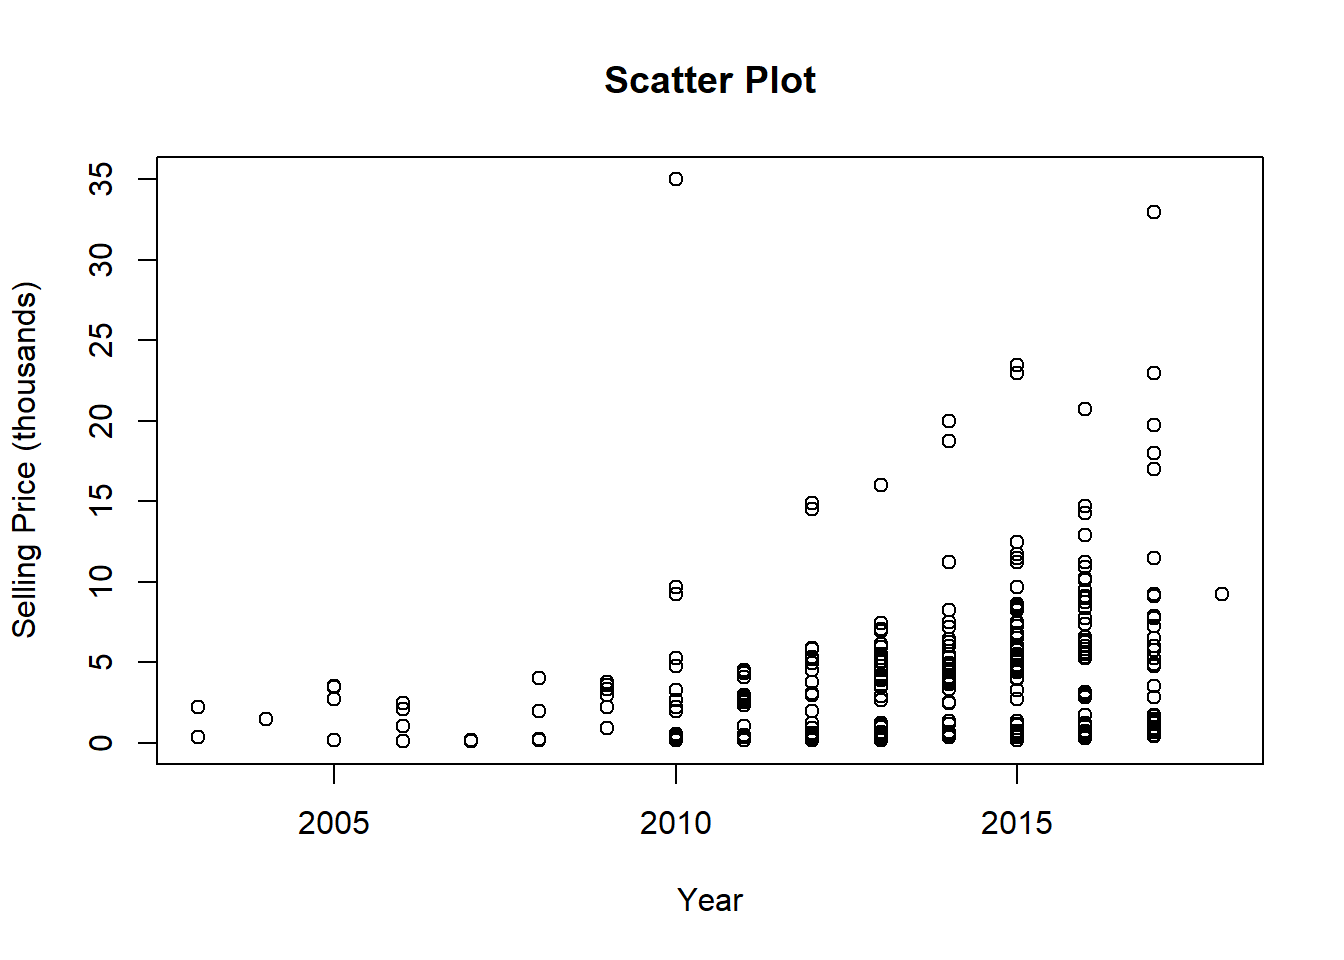
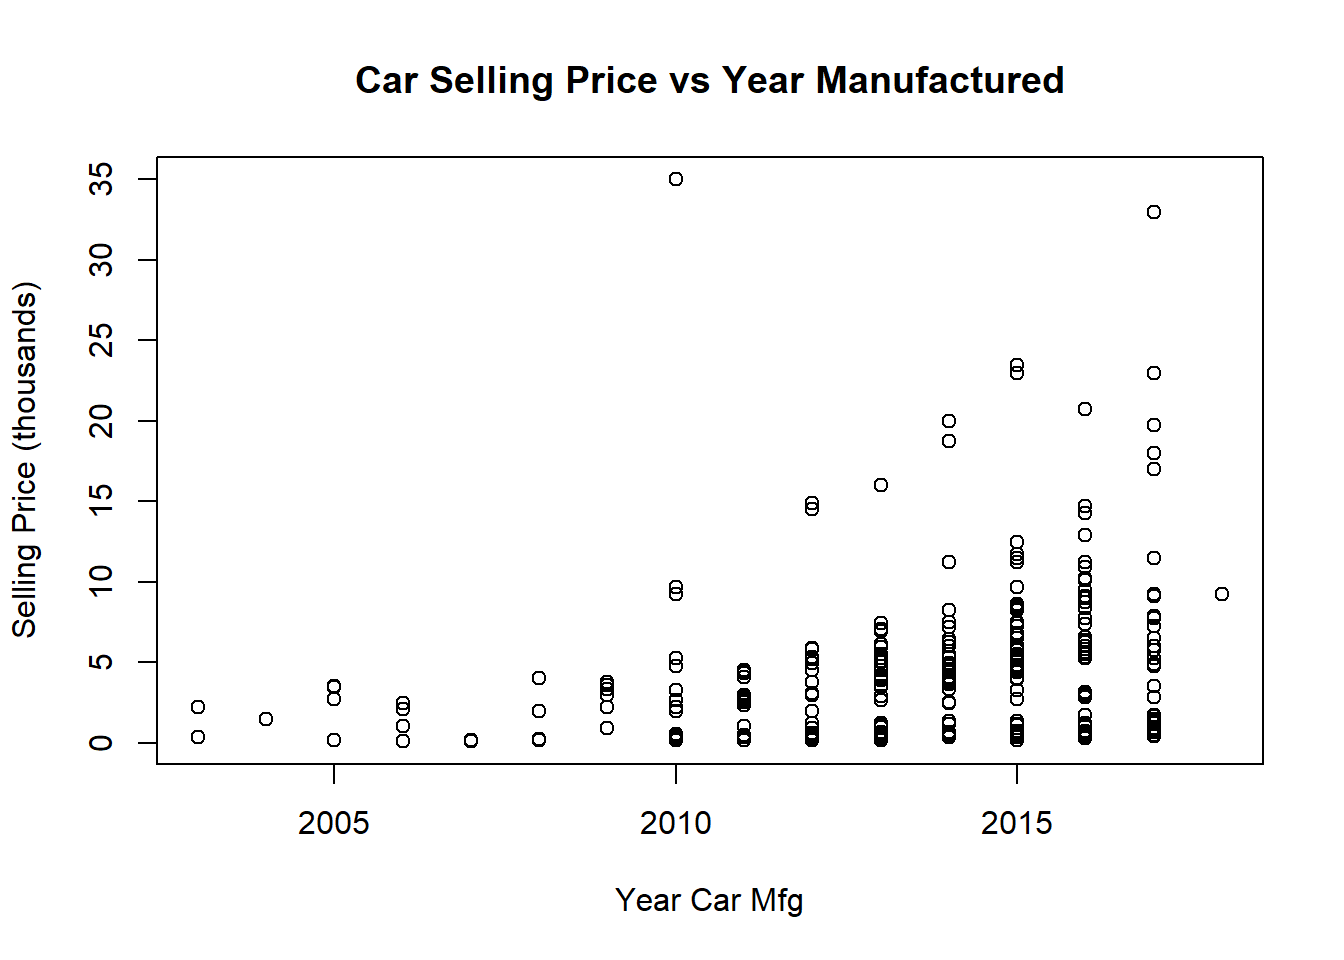
LC

Changed region(s): [[0.25, 0.0625, 0.8125, 0.125], [0.4688, 0.9062, 0.5938, 0.9688]]

diff --git a/index.html b/index.html
@@ -160,10 +160,10 @@ div.csl-indent {
 <h2 class="anchored" data-anchor-id="slides">slides</h2>
 <p><a href="Slides.html">Slides</a></p>
 </section>
-<section id="introduction" class="level2">
-<h2 class="anchored" data-anchor-id="introduction">Introduction</h2>
-<p>Cross Validation is a key method used to assess model generalizability, which describes the extent which statistical models developed in one sample fit other samples from the same population. <span class="citation" data-cites="song2021making">(<a href="#ref-song2021making" role="doc-biblioref">Song, Tang, and Wee 2021</a>)</span>. Essentially the goal of cross validation is to mimic the prediction of future individuals from the population, and allows the accuracy of a predictive model’s performance to be estimated. This is a tool that can be used to help determine the “best” model for a data set, and tends to be used in machine learning modeling. The early pioneering work of Stone and Geisser in the 1970’s and the work by Burman in the 1980’s on leave-one- out cross validation, set the stage for the current techniques of cross validation <span class="citation" data-cites="jung2015ak">(<a href="#ref-jung2015ak" role="doc-biblioref">Jung and Hu 2015</a>)</span>. Today’s common techniques of cross validation include data splitting (the most common method) by the hold- out or validation technique, random subsampling by Monte Carlo, k-folds and repeated k-folds, and leave-one-out methods. <span class="citation" data-cites="ahmed2019classification">(<a href="#ref-ahmed2019classification" role="doc-biblioref">Ahmed and Nandi 2019</a>)</span>.</p>
-<p>The general, 5 step process to cross validation is as follows <span class="citation" data-cites="song2021making">(<a href="#ref-song2021making" role="doc-biblioref">Song, Tang, and Wee 2021</a>)</span>:</p>
+<section id="introduction" class="level1">
+<h1>Introduction</h1>
+<p>Cross-Validation is a key method used to assess model generalizability, which describes the extent that the statistical models created from one sample fit other samples from the same population. <span class="citation" data-cites="song2021making">(<a href="#ref-song2021making" role="doc-biblioref">Song, Tang, and Wee 2021</a>)</span>. Essentially the goal of cross-validation is to mimic the prediction of future individuals from the population, and it allows the accuracy of a predictive model’s performance to be estimated. This is a tool that can be used to help determine the “best” model for a data set, and tends to be often used in machine learning modeling and applications where it can be difficult to obtain new data to validate models, like in medical research applications. The early pioneering work of Stone and Geisser in the 1970’s, and the work by Burman in the 1980’s on leave-one- out cross-validation set the stage for the current techniques of cross-validation <span class="citation" data-cites="jung2015ak">(<a href="#ref-jung2015ak" role="doc-biblioref">Jung and Hu 2015</a>)</span>. Today’s common techniques of cross-validation include data splitting (the most common method) by the hold- out or validation technique, random subsampling by Monte Carlo, k-folds and repeated k-folds, and leave-one-out methods. <span class="citation" data-cites="ahmed2019classification">(<a href="#ref-ahmed2019classification" role="doc-biblioref">Ahmed and Nandi 2019</a>)</span>.</p>
+<p>The general, 5 step process to cross-validation is as follows <span class="citation" data-cites="song2021making">(<a href="#ref-song2021making" role="doc-biblioref">Song, Tang, and Wee 2021</a>)</span>:</p>
 <ol type="1">
 <li>Split the data into a training set and test set</li>
 <li>Fit a model to the training set and obtain the model parameters</li>
@@ -171,36 +171,32 @@ div.csl-indent {
 <li>Repeat steps one through three</li>
 <li>Calculate the average cross-validation prediction accuracy across all the repetitions</li>
 </ol>
-<p>This process differs in the various cross-validation techniques by varying how the data is split and how many repetitions are performed of the train and test cycles. Details for the various techniques are outlined in the methods section. The best cross validation technique considers the model’s bias or difference between the population parameter and the cross-validation estimate, the variance or uncertainty in the cross-validation estimates, and the computation costs associated with each method.</p>
+<p>This process differs in the various cross-validation techniques by varying how the data is split and how many repetitions are performed of the train and test cycles. Details for the various techniques are outlined in the methods section. The best cross-validation technique considers the model’s bias or difference between the population parameter and the cross-validation estimate, the variance or uncertainty in the cross-validation estimates, and the computation costs associated with each method.</p>
 <p>Typical technique comparisons for linear models use the root mean squared error (RMSE), mean absolute error (MAE), and R-squared (<span class="math inline">\(R^2\)</span>). RMSE calculates how far predicted values are from observed values in the data set and is calculated by:<br>
-<span class="math display">\[RMSE= \sqrt{\frac{\sum(P_i – O_i)^2}{n}}\]</span> with <span class="math inline">\(P_i\)</span> being the predicted value for the ith observation, <span class="math inline">\(O_i\)</span> being the ith observed value, and n being the sample size. MAE describes the typical magnitude of the residuals and is calculated by: <span class="math display">\[MAE=\frac{1}{n}\sum(|y_i-\hat{y}|)\]</span> where <span class="math inline">\(y_i\)</span> is the actual output value and <span class="math inline">\(\hat{y}\)</span> is the predicted output. <span class="math inline">\(R^2\)</span> describes how well the model predictors explains the response variable variation, or the fraction of the variance that is explained in the model. This equation is as follows: <span class="math display">\[R^2=\frac{n\sum(xy)-\sum(x)\sum(y)}{\sqrt{[n\sum(x^2)-(\sum(x)^2)][n\sum(y^2)-(\sum(y)^2)]}}\]</span> This can also be written as: <span class="math display">\[R^2=1-\frac{\sum(y_i-\hat{y})^2}{\sum(y_i-\overline{y})^2}\]</span> where <span class="math inline">\(\overline{y}\)</span> is the mean value of y. <span class="citation" data-cites="Ott2015">(<a href="#ref-Ott2015" role="doc-biblioref">Ott 2015</a>)</span></p>
+<span class="math display">\[RMSE= \sqrt{\frac{\sum(P_i – O_i)^2}{n}}\]</span> with <span class="math inline">\(P_i\)</span> being the predicted value for the i^th observation, <span class="math inline">\(O_i\)</span> being the i^(th) observed value, and n being the sample size. MAE describes the typical magnitude of the residuals and is calculated by: <span class="math display">\[MAE=\frac{1}{n}\sum(|y_i-\hat{y}|)\]</span> where <span class="math inline">\(y_i\)</span> is the actual output value and <span class="math inline">\(\hat{y}\)</span> is the predicted output. <span class="math inline">\(R^2\)</span> describes how well the model predictors explains the response variable variation, or the fraction of the variance that is explained in the model. This equation is as follows: <span class="math display">\[R^2=\frac{n\sum(xy)-\sum(x)\sum(y)}{\sqrt{[n\sum(x^2)-(\sum(x)^2)][n\sum(y^2)-(\sum(y)^2)]}}\]</span> This can also be written as: <span class="math display">\[R^2=1-\frac{\sum(y_i-\hat{y})^2}{\sum(y_i-\overline{y})^2}\]</span> where <span class="math inline">\(\overline{y}\)</span> is the mean value of y. <span class="citation" data-cites="Ott2015">(<a href="#ref-Ott2015" role="doc-biblioref">Ott 2015</a>)</span></p>
 <p>One of the limitations of cross-validation methods is that they are not guaranteed to pick the true model of the data distribution, even as the number of samples approaches infinity. This is because when you train two different models on the same training set the one with more free parameters will model the training data better because it can over fit the data more easily. This can result in picking the wrong model due to over fitting. <span class="citation" data-cites="gronau2019limitations">(<a href="#ref-gronau2019limitations" role="doc-biblioref">Gronau and Wagenmakers 2019</a>)</span></p>
 </section>
-<section id="methods" class="level2">
-<h2 class="anchored" data-anchor-id="methods">Methods</h2>
-<p>The most common method of performing cross-validation is the <strong>Hold Out or Validation Technique</strong> (Ahmed, 2019). This method tends to use defined splits for the training and test set, like a 90/10, 80/20, 70/30, 60/40, or 50/50 train/test data split. This method is considered an easy, straightforward approach, but with the model only being built on a portion of the data, this model may not predict well as it is sensitive to what data is (or isn’t) chosen in the training set. This is especially problematic for small sample sizes. For the car data set modeling included in this paper, the method for hold Out validation is as follows:</p>
+<section id="methods" class="level1">
+<h1>Methods</h1>
+<p>##Cross-Validation Techniques</p>
+<p>The most common method of performing cross-validation is the <strong>Hold-Out or Validation Technique</strong> (Ahmed, 2019). This method tends to use defined splits for the training and test set, like a 90/10, 80/20, 70/30, 60/40, or 50/50 train/test data split. This method is considered an easy, straightforward approach, but with the model only being built on a portion of the data, this model may not predict well as it is sensitive to what data is (or isn’t) chosen in the training set. This can be especially problematic for small sample sizes. For the car data set modeling included in this paper, the method for hold-out validation is as follows:</p>
 <ol type="1">
-<li>Split the data into an 70/30 training/test data set.</li>
+<li>Split the data into an 70/30 training/test data set</li>
 <li>Fit the model to the training set</li>
 <li>Apply the fitted model to the test set</li>
 <li>Compare the model predictions (<span class="math inline">\(R^2\)</span>, MAE, RMSE)</li>
 </ol>
 <p>The <strong>k-folds Cross-Validation Technique</strong> is one potential answer to the limitations in the simple hold-out technique. The data is divided into k groups or splits, and then each k group becomes a test set while the other groups as a whole are the training set. The detailed process is as follows <span class="citation" data-cites="jung2015ak">(<a href="#ref-jung2015ak" role="doc-biblioref">Jung and Hu 2015</a>)</span>:</p>
 <ol type="1">
-<li>Randomly and evenly split the data set into k-folds.</li>
+<li>Randomly and evenly split the data set into k-folds</li>
 <li>Use k-1 folds of data as the training set to fit the model</li>
 <li>With the fitted models, predict the value of the response variable in the hold out fold (kth fold)</li>
 <li>From the response variable in the hold-out fold, calculate the prediction error</li>
-<li>Repeat steps 2-4 for k times, so each k fold is used as a hold-out</li>
+<li>Repeat steps 2-4 for k times, using each k fold as a hold-out</li>
 <li>Compare the prediction performance measures to select the “best” model using the equation: <span class="math display">\[CV_(k)=\frac{1}{k}\sum_{i=1}^{k}{MSE_i}\]</span></li>
 </ol>
 <p>The following image, Figure 1, visually shows the how data is split in the k-folds technique.</p>
-<div class="quarto-figure quarto-figure-center">
-<figure class="figure">
-<p><img src="k-folds.png" class="img-fluid figure-img"></p>
-<p></p><figcaption class="figure-caption">Figure 1: Visual Depiction of K-folds <a href="https://www.i2tutorials.com/machine-learning-tutorial/machine-learning-k-fold-cross-validation/">Sourced from www.i2tutorials.com for image</a></figcaption><p></p>
-</figure>
-</div>
+<p><img src="k-folds.png" class="img-fluid" alt="Figure 1: Visual Depiction of K-folds (Image source (https://www.i2tutorials.com/machine-learning-tutorial/machine-learning-k-fold-cross-validation/)](k-folds.png 2019))">)</p>
 <p>Expanding on the k-folds technique is the <strong>repeated k-folds Cross-Validation Technique</strong> <span class="citation" data-cites="song2021making">(<a href="#ref-song2021making" role="doc-biblioref">Song, Tang, and Wee 2021</a>)</span> which extends the k-folds by conducting multiple repetitions (n), each using a different k fold split. If 5 repeats of a 10-fold cross validation were chosen, 50 (n*k) different models would be fit and evaluated. With each repetition (n) having a slightly different data subset, the model predictors should be even more unbiased than with k-folds, but with having to repeat the process numerous times, this can be a time and labor intensive process, leading to increased costs. The process is as follows:</p>
 <ol type="1">
 <li>Randomly and evenly split the data set into k-folds.</li>
@@ -221,10 +217,12 @@ div.csl-indent {
 <p>One big decision that has to be made when using cross-validation methods other than leave-one-out, is the <em>optimal number of folds</em> (also known as k) that the data should be divided into. In the article “Performance of Machine Learning Algorithms with Different K Values in K-fold Cross-Validation” k-validation was used on 4 different machine learning algorithms with splits of 3, 5, 7, 10, 15 and 20. They found the optimal k folds changed depending on the model being tested. <span class="citation" data-cites="nti2021performance">(<a href="#ref-nti2021performance" role="doc-biblioref">Nti, Nyarko-Boateng, and Aning 2021</a>)</span> Common practice uses 5 and 10 folds as these values have been shown to yield favorable test error rate estimates. <span class="citation" data-cites="James2013">(<a href="#ref-James2013" role="doc-biblioref">James 2013</a>)</span>. Our paper will explore using 3, 5 and 10 k-folds, and modeling repeated k-folds of 3 and 5 repetitions on 10 folds.</p>
 <p>Another technique is the <strong>Monte Carlo Cross-Validation Technique</strong>, which is similar to a k-fold method, but a predefined portion of the data is randomly selected to form the test set in each repetition, and the remaining portion forms the training set. The train-test process is repeated a predetermined number of times. <span class="citation" data-cites="wainer2021nested">(<a href="#ref-wainer2021nested" role="doc-biblioref">Wainer and Cawley 2021</a>)</span></p>
 <p>Additionally, <strong>Multiple Predicting Cross-Validation</strong> is a technique that can be used for cross-validation but is not being modeled in this paper. This is a variation of k-folds but instead of each fold being the validation set, it is the training set. The trained model is then evaluated on the remaining data. The average of the k-folds is then used to measure how good the model is. <span class="citation" data-cites="jung2018multiple">(<a href="#ref-jung2018multiple" role="doc-biblioref">Jung 2018</a>)</span></p>
+<p>#Cross-Validation Model Evaluation Typical technique comparisons for linear models use the root mean squared error (RMSE), mean absolute error (MAE), and R-squared (<span class="math inline">\(R^2\)</span>). RMSE calculates how far predicted values are from observed values in the data set and is calculated by:<br>
+<span class="math display">\[RMSE= \sqrt{\frac{\sum(P_i – O_i)^2}{n}}\]</span> with <span class="math inline">\(P_i\)</span> being the predicted value for the i^th observation, <span class="math inline">\(O_i\)</span> being the i^(th) observed value, and n being the sample size. MAE describes the typical magnitude of the residuals and is calculated by: <span class="math display">\[MAE=\frac{1}{n}\sum(|y_i-\hat{y}|)\]</span> where <span class="math inline">\(y_i\)</span> is the actual output value and <span class="math inline">\(\hat{y}\)</span> is the predicted output. <span class="math inline">\(R^2\)</span> describes how well the model predictors explains the response variable variation, or the fraction of the variance that is explained in the model. This equation is as follows: <span class="math display">\[R^2=\frac{n\sum(xy)-\sum(x)\sum(y)}{\sqrt{[n\sum(x^2)-(\sum(x)^2)][n\sum(y^2)-(\sum(y)^2)]}}\]</span> This can also be written as: <span class="math display">\[R^2=1-\frac{\sum(y_i-\hat{y})^2}{\sum(y_i-\overline{y})^2}\]</span> where <span class="math inline">\(\overline{y}\)</span> is the mean value of y. <span class="citation" data-cites="Ott2015">(<a href="#ref-Ott2015" role="doc-biblioref">Ott 2015</a>)</span></p>
 </section>
-<section id="analysis-and-results" class="level2">
-<h2 class="anchored" data-anchor-id="analysis-and-results">Analysis and Results</h2>
-<p><strong>Data Discussion</strong></p>
+<section id="analysis-and-results" class="level1">
+<h1>Analysis and Results</h1>
+<p>##Data Discussion</p>
 <p>Cross-validation techniques of hold-out validation, k-folds, repeated k-folds, leave-one-out and Monte Carlo were performed on the Kaggle Car data.csv set. This data set allowed us to model the selling price of a used car in the United Kingdom given the variables of kilometers driven, the fuel type used, the year the car was manufactured, if the seller was an individual or dealership, and what type of transmission was in the car. This data set had 301 entries. The data is detailed in table 1 below.</p>
 <table class="table">
 <colgroup>
@@ -274,7 +272,7 @@ div.csl-indent {
 </table>
 <p>Table 1: Car Data Set for Cross Validation</p>
 <p><a href="https://www.kaggle.com/datasets/nehalbirla/vehicle-dataset-from-cardekho?select=car+data.csv">Link to Documentation for CarData data</a></p>
-<p>Plot below is a scatter plot of Year and Selling Price. The new cars seams to sell for more then older cars.</p>
+<p>Figure 2 below shows a scatter plot of the year of the car verses its selling price. Unsurprisingly, newer cars seem to sell for higher prices than older car models.</p>
 <div class="cell">
 <details>
 <summary>Code</summary>
@@ -283,15 +281,16 @@ div.csl-indent {
 <span id="cb1-3"><a href="#cb1-3" aria-hidden="true" tabindex="-1"></a></span>
 <span id="cb1-4"><a href="#cb1-4" aria-hidden="true" tabindex="-1"></a><span class="co"># Selling Price ~ Year</span></span>
 <span id="cb1-5"><a href="#cb1-5" aria-hidden="true" tabindex="-1"></a><span class="fu">plot</span>(car_data<span class="sc">$</span>Year, car_data<span class="sc">$</span>Selling_Price,</span>
-<span id="cb1-6"><a href="#cb1-6" aria-hidden="true" tabindex="-1"></a>     <span class="at">xlab =</span> <span class="st">"Year"</span>,</span>
+<span id="cb1-6"><a href="#cb1-6" aria-hidden="true" tabindex="-1"></a>     <span class="at">xlab =</span> <span class="st">"Year Car Mfg"</span>,</span>
 <span id="cb1-7"><a href="#cb1-7" aria-hidden="true" tabindex="-1"></a>     <span class="at">ylab =</span> <span class="st">"Selling Price (thousands)"</span>,</span>
-<span id="cb1-8"><a href="#cb1-8" aria-hidden="true" tabindex="-1"></a>     <span class="at">main =</span> <span class="st">"Scatter Plot"</span>)</span></code><button title="Copy to Clipboard" class="code-copy-button"><i class="bi"></i></button></pre></div>
+<span id="cb1-8"><a href="#cb1-8" aria-hidden="true" tabindex="-1"></a>     <span class="at">main =</span> <span class="st">"Car Selling Price vs Year Manufactured"</span>)</span></code><button title="Copy to Clipboard" class="code-copy-button"><i class="bi"></i></button></pre></div>
 </details>
 <div class="cell-output-display">
 <p><img src="index_files/figure-html/unnamed-chunk-1-1.png" class="img-fluid" width="672"></p>
 </div>
 </div>
-<p>This is a Scatter Plot of kms Driven and Selling Price there does not seam to be a connection between the Kms driven and the selling price of the car.</p>
+<p>Figure 2: Scatter Plot of Car Selling Price vs.&nbsp;Year Car Manufactured</p>
+<p>As Figure 3 shows, the plot of the selling price verses the kms driven does not show any noticeable connection between the two.</p>
 <div class="cell">
 <details>
 <summary>Code</summary>
@@ -299,13 +298,14 @@ div.csl-indent {
 <span id="cb2-2"><a href="#cb2-2" aria-hidden="true" tabindex="-1"></a><span class="fu">plot</span>(car_data<span class="sc">$</span>Kms_Driven, car_data<span class="sc">$</span>Selling_Price,</span>
 <span id="cb2-3"><a href="#cb2-3" aria-hidden="true" tabindex="-1"></a>     <span class="at">xlab =</span> <span class="st">"Kms Driven"</span>,</span>
 <span id="cb2-4"><a href="#cb2-4" aria-hidden="true" tabindex="-1"></a>     <span class="at">ylab =</span> <span class="st">"Selling Price (thousands)"</span>,</span>
-<span id="cb2-5"><a href="#cb2-5" aria-hidden="true" tabindex="-1"></a>     <span class="at">main =</span> <span class="st">"Scatter Plot"</span>,</span>
+<span id="cb2-5"><a href="#cb2-5" aria-hidden="true" tabindex="-1"></a>     <span class="at">main =</span> <span class="st">"Car Selling Price vs. kms Driven"</span>,</span>
 <span id="cb2-6"><a href="#cb2-6" aria-hidden="true" tabindex="-1"></a>     <span class="at">xlim =</span> <span class="fu">c</span>(<span class="dv">0</span>, <span class="dv">100000</span>))</span></code><button title="Copy to Clipboard" class="code-copy-button"><i class="bi"></i></button></pre></div>
 </details>
 <div class="cell-output-display">
 <p><img src="index_files/figure-html/unnamed-chunk-2-1.png" class="img-fluid" width="672"></p>
 </div>
 </div>
+<p>Figure 3: Scatter Plot of Car Selling Price vs.&nbsp;Year Car Manufactured</p>
 <section id="statistical-modeling" class="level3">
 <h3 class="anchored" data-anchor-id="statistical-modeling">Statistical Modeling</h3>
 <p>First, the data was fit to the following linear model, <span class="math display">\[Selling Price=Year+KmsDriven+FuelType+SellerType+Transmission\]</span></p>
@@ -801,10 +801,10 @@ div.csl-indent {
 <h3 class="anchored" data-anchor-id="conlusion">Conlusion</h3>
 <p>This paper shows various cross-validation techniques that can be used for modeling validation, including hold out, k and repeated k-folds, leave-one-out and Monte Carlo cross-validation. As cross-validation tends to be used in machine learning on large data, or in situations where it may be hard to gather large samples, our example allowed us to review the full data set’s performance with linear regression and then compare the performance of the cross validation techniques. We compared both a linear model and a transformed linear model and found that for the most part many of these cross validation techniques performed about the same and were able to fit accurate models. While k-folds, repeated k-folds and hold-out seemed to perform the best, most of these techniques seem sufficient to help validate a model based on this example.</p>
 </section>
-</section>
 <section id="references" class="level2 unnumbered">
 
 
+</section>
 </section>
 
 <div id="quarto-appendix" class="default"><section class="quarto-appendix-contents" role="doc-bibliography"><h2 class="anchored quarto-appendix-heading">References</h2><div id="refs" class="references csl-bib-body hanging-indent" role="doc-bibliography">
@@ -816,6 +816,9 @@ Derryberry, DeWayne R. 2014. <em>Basic Data Analysis for Time Series with r</em>
 </div>
 <div id="ref-gronau2019limitations" class="csl-entry" role="doc-biblioentry">
 Gronau, Quentin F, and Eric-Jan Wagenmakers. 2019. <span>“Limitations of Bayesian Leave-One-Out Cross-Validation for Model Selection.”</span> <em>Computational Brain &amp; Behavior</em> 2 (1): 1–11.
+</div>
+<div id="ref-image1" class="csl-entry" role="doc-biblioentry">
+https://www.i2tutorials.com/machine-learning-tutorial/machine-learning-k-fold-cross-validation/)](k-folds.png. 2019. <span>“Machine Learing k-Fold Cross-Validation.”</span>
 </div>
 <div id="ref-James2013" class="csl-entry" role="doc-biblioentry">
 James, Witten, G. 2013. <em>An Introduction to Statistical Learning: With Applications in r</em>. Springer.
